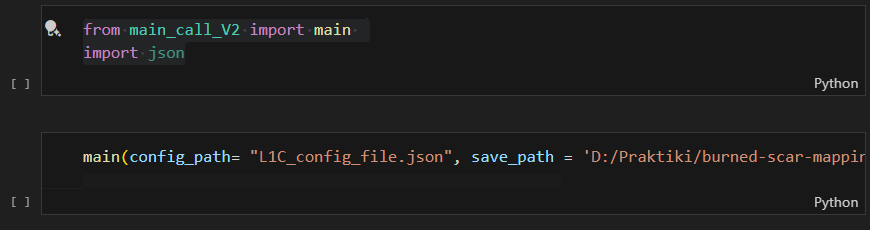
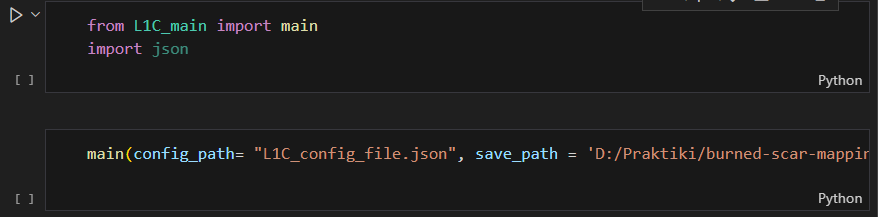
READ ME

diff --git a/src/mapping/L2A_Scripts/Final_scripts/L2A_main.py b/src/mapping/L2A_Scripts/Final_scripts/L2A_main.py
@@ -1,0 +1,49 @@
+import json
+import logging
+from datetime import datetime, timedelta
+from L2A_Downloader import Downloader
+from L2A_Processor import Processor
+
+def load_config(config_path):
+    with open(config_path, 'r') as config_file:
+        config = json.load(config_file)
+    return config
+
+# TODO AMA DEN DINEI START DATE END DATE O XRISTIS
+def main(config_path= "config_file.json", save_path = 'D:/Praktiki/burned-scar-mapping/burn-scar-mapping/src/mapping/Images_Save'):
+    config = load_config(config_path)
+    # Accessing the values from the config
+    client_id = config['sentinelhub']['client_id']
+    client_secret = config['sentinelhub']['client_secret']
+    username = config['sentinelhub']['username']
+    password = config['sentinelhub']['password']
+    start_date = config['process_info']['start_date']
+    fire_date = config['process_info']['fire_date']
+    end_date = config['process_info']['end_date']
+    fire_duration = config['process_info']['fire_duration']
+    lat = config['process_info']['lat']
+    lon = config['process_info']['lon']
+    cloud_coverage_threshold = config['user_variables']['cloud_coverage_threshold']
+    mask_threshold = config['user_variables']['mask_threshold']
+    debug = config['debug']
+   
+    # Convert the string to a datetime object
+    fire_date_ns = datetime.strptime(fire_date, "%Y-%m-%d")
+    # Calculate pre_fire_date and post_fire_date
+    pre_fire_date_ns = fire_date_ns - timedelta(days = fire_duration)
+    post_fire_date_ns = fire_date_ns + timedelta(days = fire_duration)
+    # Convert back to string
+    pre_fire_date = pre_fire_date_ns.strftime("%Y-%m-%d")
+    post_fire_date = post_fire_date_ns.strftime("%Y-%m-%d")
+    print("Pre-Fire Date:", pre_fire_date)
+    print("Post-Fire Date:", post_fire_date)
+
+    downloader = Downloader(username, password, client_id, client_secret)
+    processor = Processor(downloader, cloud_coverage_threshold, mask_threshold)
+    processed_dir = processor.process_burned_area(start_date,end_date,pre_fire_date,post_fire_date, lat, lon, save_path)
+    # Log the result
+    logging.info("Processing completed successfully.")
+    logging.info(f"Processed data saved to: {processed_dir}")
+
+if __name__ == "__main__":
+    main(config_path= "L2A_config_file.json", save_path = 'D:/Praktiki/burned-scar-mapping/burn-scar-mapping/src/mapping/Images_Save')

diff --git a/README_L1C.md b/README_L1C.md
@@ -8,7 +8,7 @@ The Purpose of this code is to respond to the need of automation for Burned Scar
 The code is composed of one main script (main_call.py) and two classes: _L1C_Downloader.py_ , _L1C_Processor.py_ which are responsible for the downloading of the required images, their processing and consequently the extraction of the burned area.
 
 ### **1. Main Code**
-The main code _Main_call.py_ has the following structure:
+The main code L1C_main.py_ has the following structure:
 - Loads the config file and matches the required information to variables
 - Creates an object from the L1C_Downloader and an object fromt the L1C_Proseccor class
 - Calls the function process_burned_area from the L1C_Proseccor class which extracts the final burned area     

diff --git a/README_L2A.md b/README_L2A.md
@@ -8,7 +8,7 @@ The Purpose of this code is to respond to the need of automation for Burned Scar
 The code is composed of one main script (main_call.py) and two classes: _L2A_Downloader.py_ , _LA2_Processor.py_ which are responsible for the downloading of the required images, their processing and consequently the extraction of the burned area.
 
 ### **1. Main Code**
-The main code _Main_call.py_ has the following structure:
+The main code L2A_main.py_ has the following structure:
 - Loads the config file and matches the required information to variables
 - Creates an object from the L2A_Downloader and an object fromt the L2A_Proseccor class
 - Calls the function process_burned_area from the L2A_Proseccor class which extracts the final burned area
